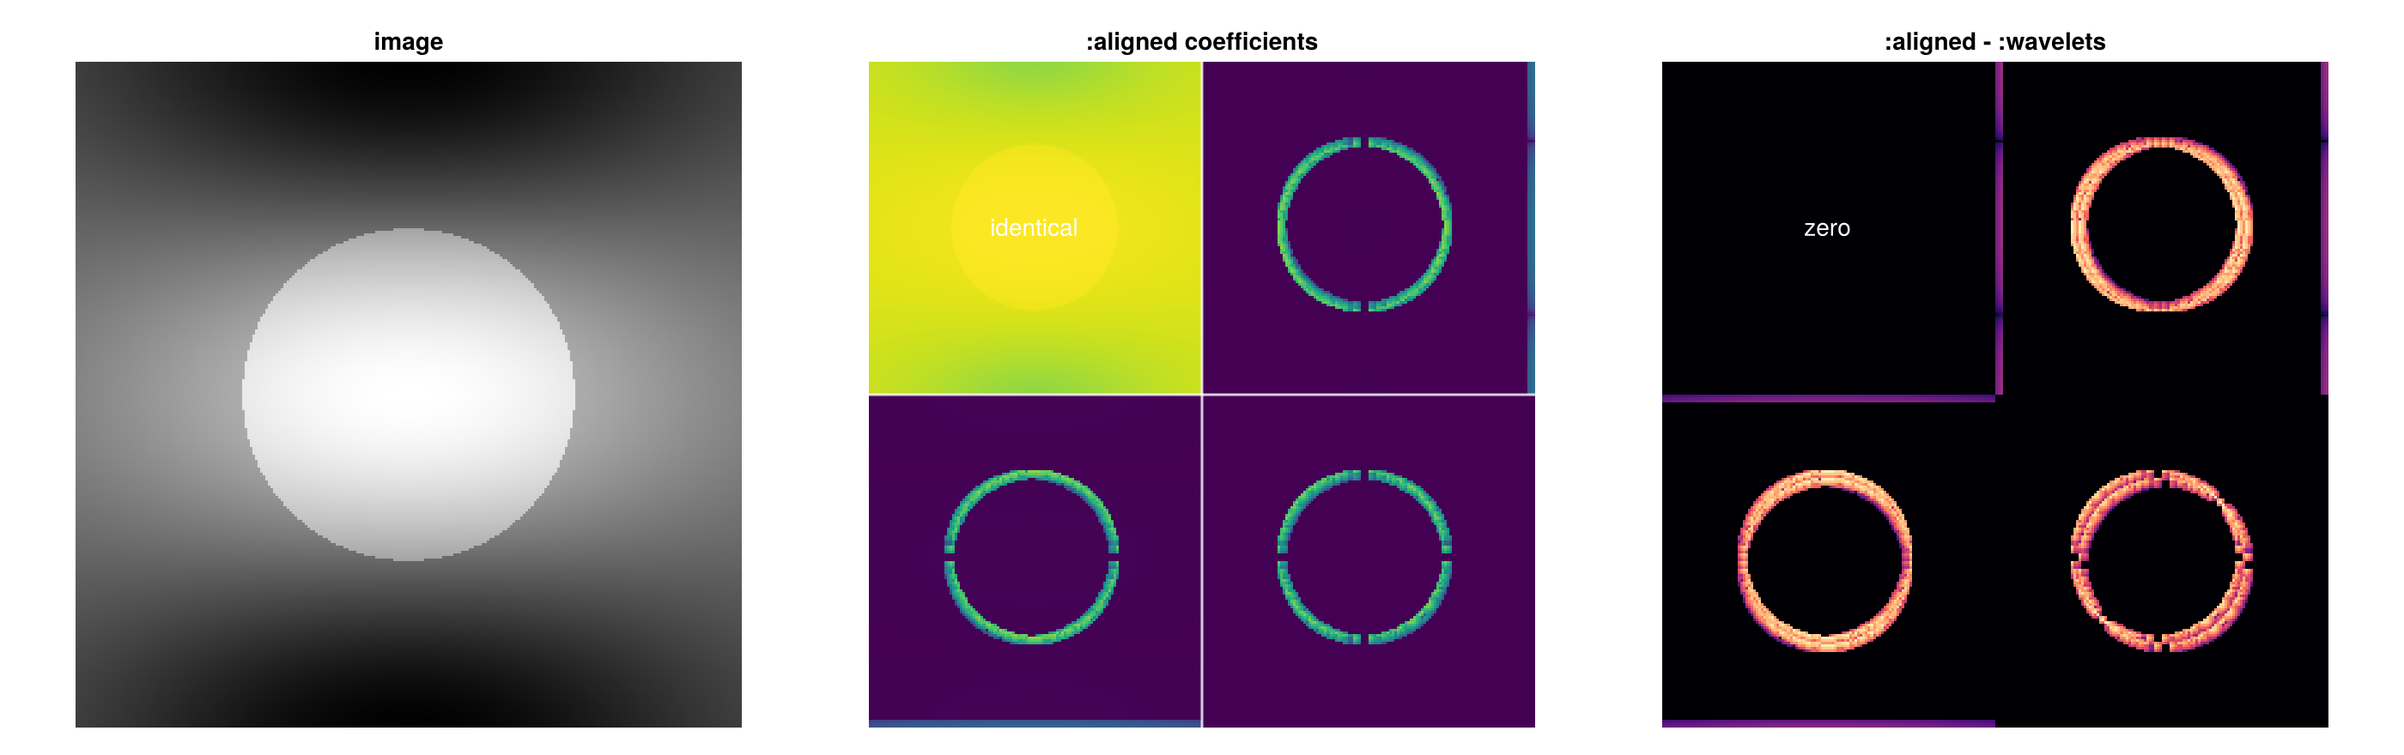
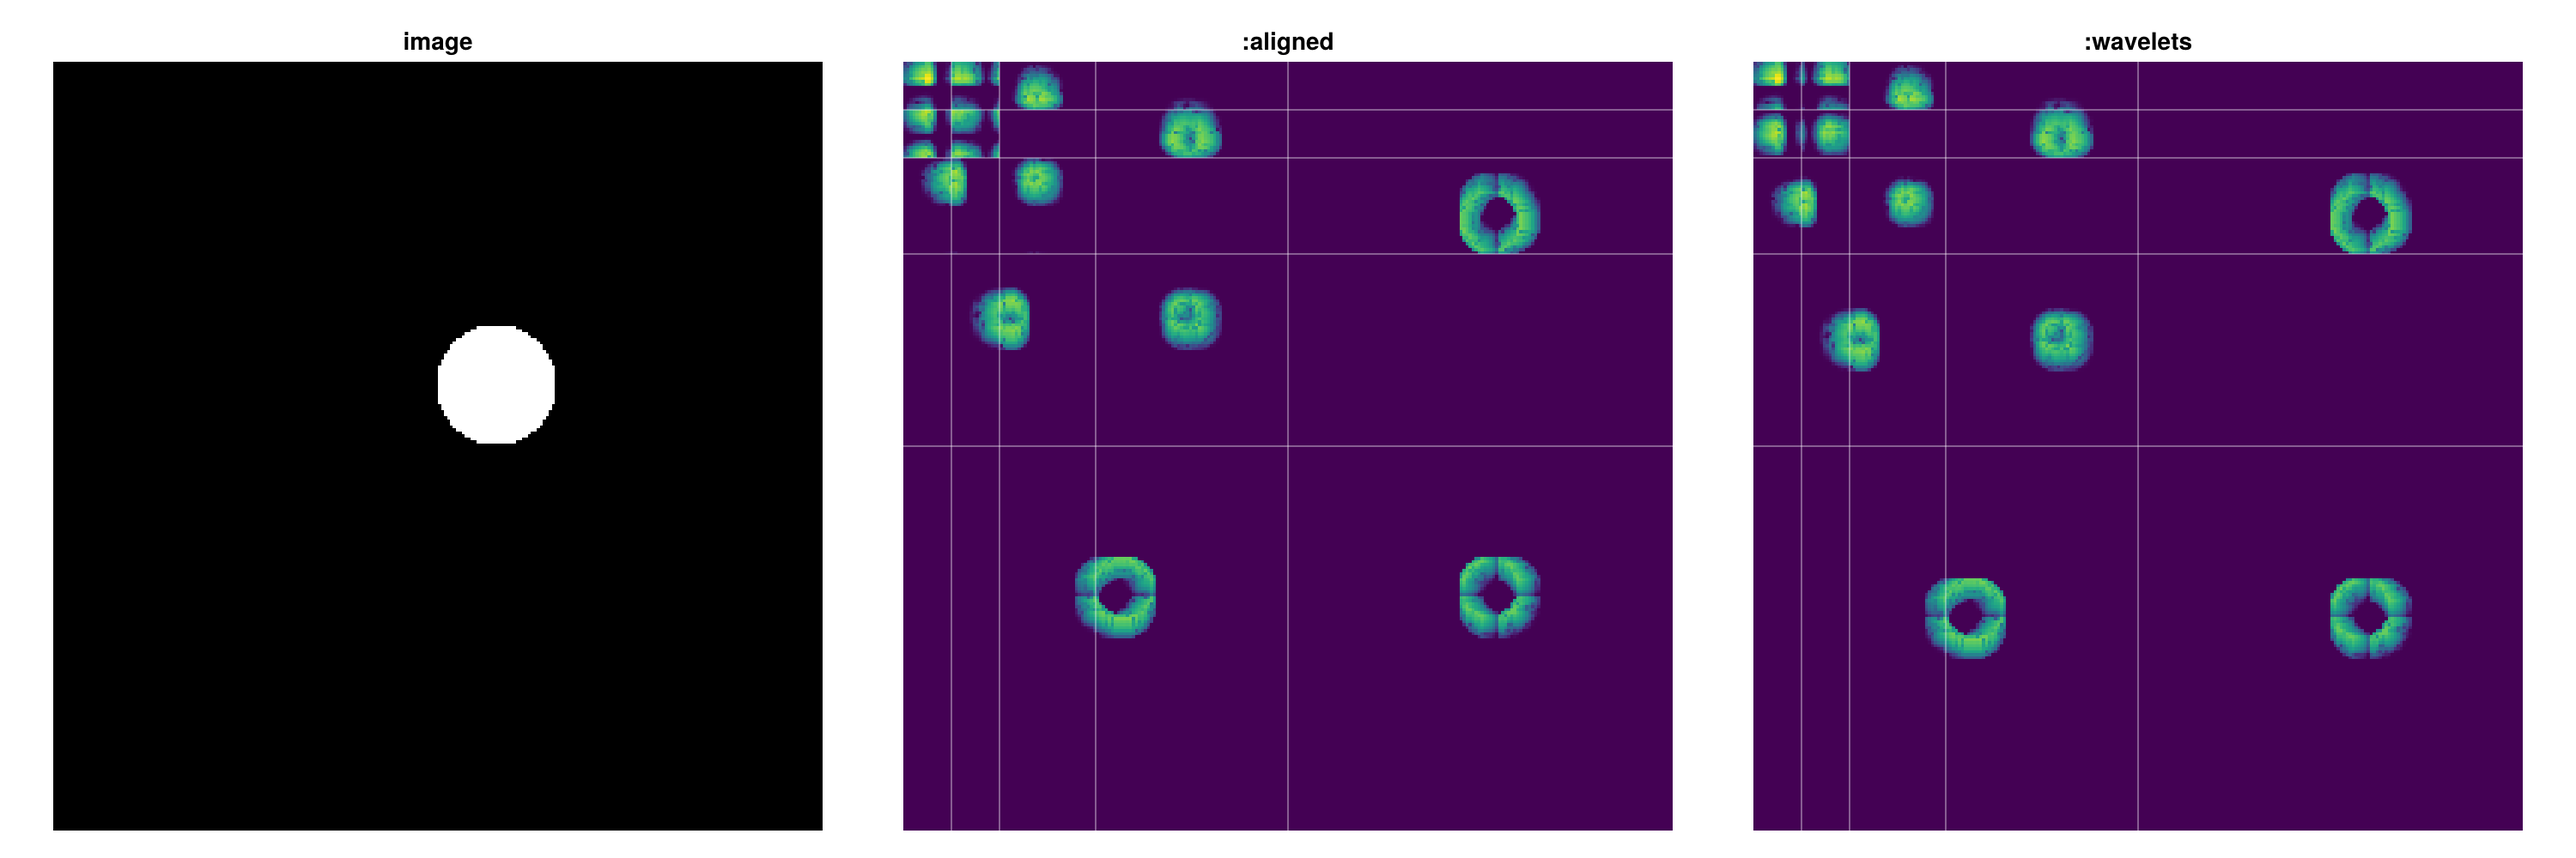
Docs: show aligned and wavelets 2-D coefficients side by side
Replace the difference panel on the phase-convention page with the aligned
and wavelets coefficient arrays themselves. Use a four-level WT_D8 transform
of a compact feature, where the rotation is a larger fraction of a coarser
band, so the two panels differ plainly at every level.

diff --git a/docs/src/conventions.md b/docs/src/conventions.md
@@ -38,14 +38,15 @@ coefficients.
 
 ## Two dimensions
 
-The same comparison on an image. The first panel is the image. The second
-is the aligned level-1 coefficients, with the approximation band in the
-top-left corner. The third is the difference between the two conventions.
-It is exactly zero in the approximation band, because the scaling
-coefficients agree, and non-zero in every detail band, because those
-coefficients are rotated.
+The same comparison on a compact feature, with a four-level `WT_D8`
+transform. The first panel is the image. The middle and right panels are
+the same coefficients under the two conventions, with the subband
+boundaries drawn. The approximation band in the top-left corner is
+identical, because the scaling coefficients agree. Every detail band is
+rotated, and the rotation is a larger fraction of a coarser band, so the
+displacement grows with depth.
 
-![The image, the aligned coefficients, and the difference between the conventions for a two-dimensional transform.](assets/phase-2d.png)
+![The image, and the same multilevel coefficients under the two conventions.](assets/phase-2d.png)
 
 ## The wavelet under each convention
 
